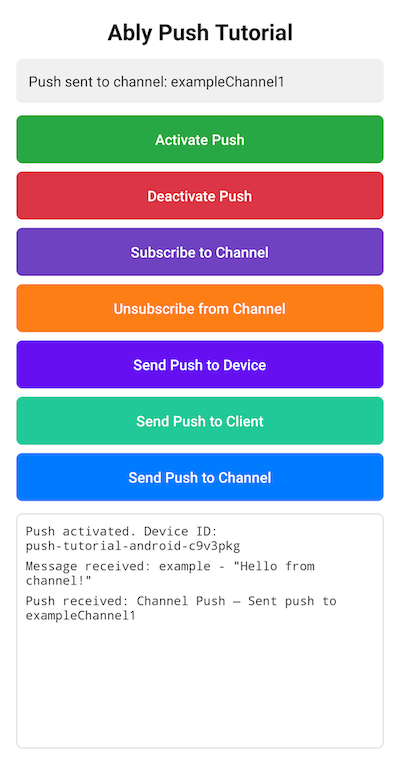
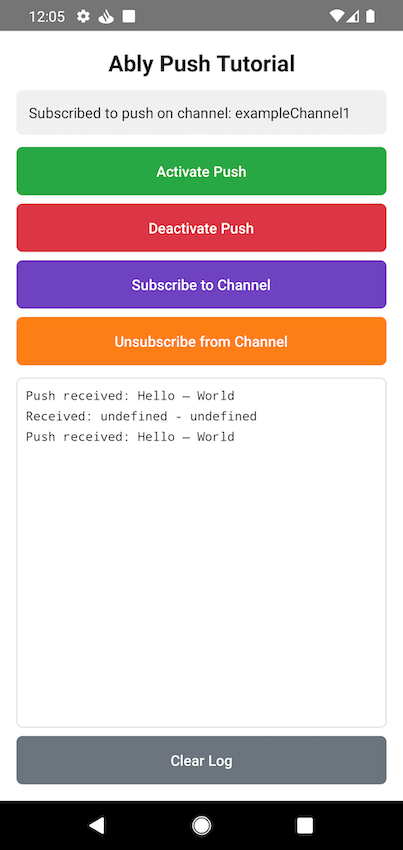
refactor: use ably/react hooks in React Native push guide
- Wrap app in AblyProvider + ChannelProvider
- Split App into App (providers) and PushScreen (hooks)
- Replace manual useEffect channel subscription with useChannel
- Replace module-scope realtime client with useAbly() in PushScreen
- Update ably channels publish CLI to ably push publish --channel
- Remove scrollViewRef auto-scroll for brevity
- Rename appendLog to log

diff --git a/src/data/nav/pubsub.ts b/src/data/nav/pubsub.ts
@@ -271,6 +271,7 @@ export default {
             {
               name: 'React Native',
               link: '/docs/push/getting-started/react-native',
+              languages: ['javascript'],
             },
           ],
         },
